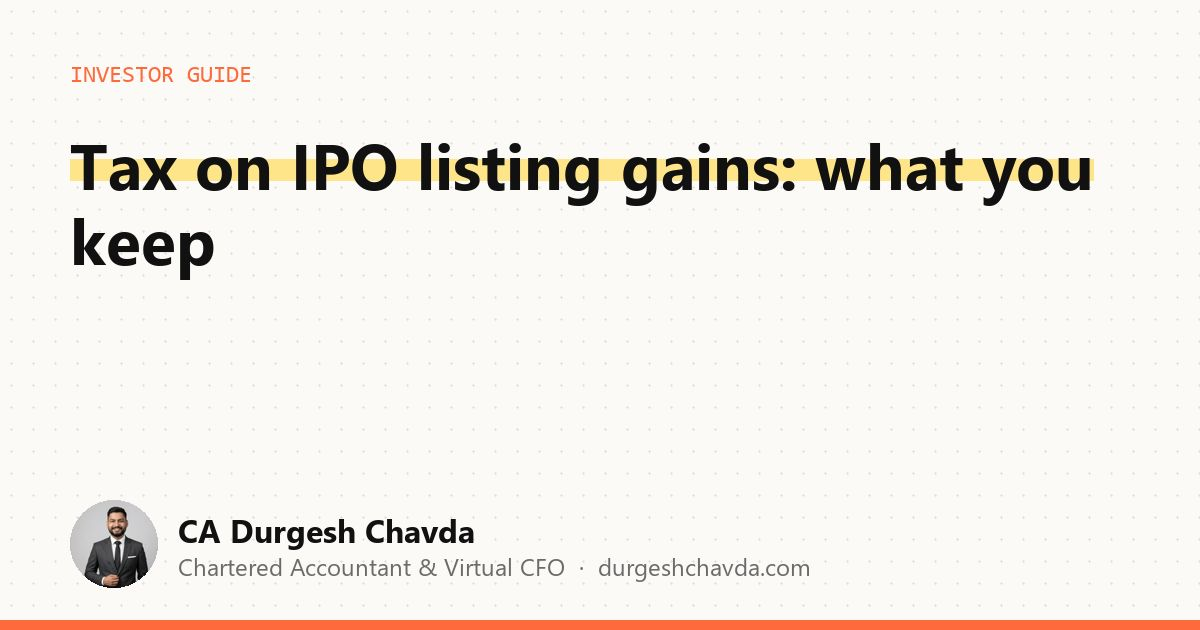
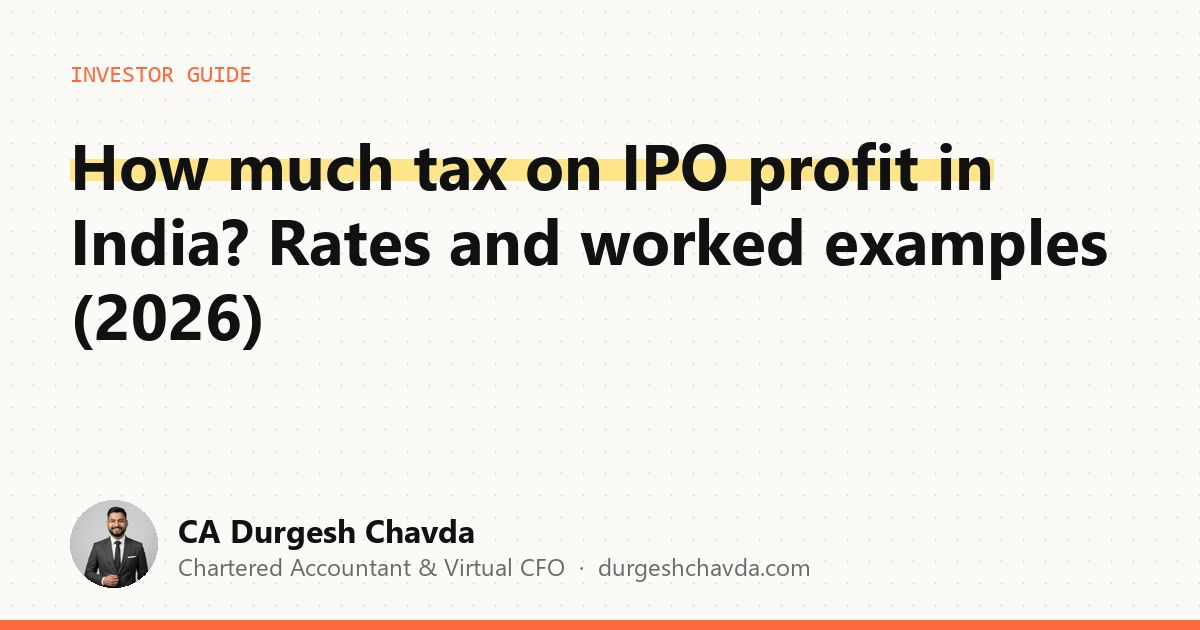
IPO profit tax: worked examples, profit-focused title and FAQs

Changed region(s): [[0.0617, 0.2111, 0.925, 0.3317], [0.0617, 0.3317, 0.925, 0.4524], [0.0617, 0.4524, 0.2158, 0.573]]

diff --git a/insights/tax-on-ipo-listing-gains-india/index.html b/insights/tax-on-ipo-listing-gains-india/index.html
@@ -3,7 +3,7 @@
 <head>
 <meta charset="UTF-8"/>
 <meta name="viewport" content="width=device-width,initial-scale=1.0"/>
-<title>IPO Tax Rate in India 2026: Tax on Listing Gains, STCG, LTCG</title>
+<title>IPO Profit Tax in India 2026: Rates, Listing Gains, Examples</title>
 <meta name="description" content="How IPO gains are taxed in India: sell within 12 months — 20% STCG; after — 12.5% LTCG above ₹1.25 lakh. TDS for NRIs, set-off of losses and how NRIs can apply."/>
 <meta name="robots" content="index,follow,max-image-preview:large,max-snippet:-1"/>
 <link rel="canonical" href="https://www.durgeshchavda.com/insights/tax-on-ipo-listing-gains-india/"/>
@@ -11,18 +11,18 @@
 <meta property="og:type" content="article"/>
 <meta property="og:site_name" content="Durgesh Chavda"/>
 <meta property="og:locale" content="en_IN"/>
-<meta property="og:title" content="IPO Tax Rate in India 2026: Tax on Listing Gains, STCG, LTCG"/>
+<meta property="og:title" content="IPO Profit Tax in India 2026: Rates, Listing Gains, Examples"/>
 <meta property="og:description" content="How IPO gains are taxed in India: sell within 12 months — 20% STCG; after — 12.5% LTCG above ₹1.25 lakh. TDS for NRIs, set-off of losses and how NRIs can apply."/>
 <meta property="og:url" content="https://www.durgeshchavda.com/insights/tax-on-ipo-listing-gains-india/"/>
 <meta property="og:image" content="https://www.durgeshchavda.com/assets/og/insights-tax-on-ipo-listing-gains-india.jpg"/>
 <meta property="og:image:width" content="1200"/><meta property="og:image:height" content="630"/>
 <meta name="twitter:card" content="summary_large_image"/>
-<meta name="twitter:title" content="IPO Tax Rate in India 2026: Tax on Listing Gains, STCG, LTCG"/>
+<meta name="twitter:title" content="IPO Profit Tax in India 2026: Rates, Listing Gains, Examples"/>
 <meta name="twitter:description" content="How IPO gains are taxed in India: sell within 12 months — 20% STCG; after — 12.5% LTCG above ₹1.25 lakh. TDS for NRIs, set-off of losses and how NRIs can apply."/>
 <meta name="twitter:image" content="https://www.durgeshchavda.com/assets/og/insights-tax-on-ipo-listing-gains-india.jpg"/>
 <link rel="alternate" type="application/rss+xml" title="Durgesh Chavda — Insights" href="https://www.durgeshchavda.com/insights/feed.xml"/>
-<!-- lastmod:2026-10-23 -->
-<meta property="article:published_time" content="2026-10-23"/><meta property="article:modified_time" content="2026-10-23"/><meta property="article:author" content="https://www.durgeshchavda.com/about/"/>
+<!-- lastmod:2026-10-25 -->
+<meta property="article:published_time" content="2026-10-25"/><meta property="article:modified_time" content="2026-10-25"/><meta property="article:author" content="https://www.durgeshchavda.com/about/"/>
 <meta name="theme-color" content="#fbfaf7"/>
 <link rel="icon" href="/favicon.svg" type="image/svg+xml"/>
 <link rel="icon" href="/favicon-32.png" sizes="32x32" type="image/png"/>
@@ -62,12 +62,12 @@
   {
    "@type": "BlogPosting",
    "@id": "https://www.durgeshchavda.com/insights/tax-on-ipo-listing-gains-india/#article",
-   "headline": "Tax on IPO listing gains: what you keep",
+   "headline": "How much tax on IPO profit in India? Rates and worked examples (2026)",
    "description": "How IPO gains are taxed in India: sell within 12 months — 20% STCG; after — 12.5% LTCG above ₹1.25 lakh. TDS for NRIs, set-off of losses and how NRIs can apply.",
    "url": "https://www.durgeshchavda.com/insights/tax-on-ipo-listing-gains-india/",
    "mainEntityOfPage": "https://www.durgeshchavda.com/insights/tax-on-ipo-listing-gains-india/",
-   "datePublished": "2026-10-23",
-   "dateModified": "2026-10-23",
+   "datePublished": "2026-10-25",
+   "dateModified": "2026-10-25",
    "inLanguage": "en-IN",
    "image": "https://www.durgeshchavda.com/assets/og/insights-tax-on-ipo-listing-gains-india.jpg",
    "author": {
@@ -83,6 +83,22 @@
   {
    "@type": "FAQPage",
    "mainEntity": [
+    {
+     "@type": "Question",
+     "name": "Is IPO profit tax-free after one year?",
+     "acceptedAnswer": {
+      "@type": "Answer",
+      "text": "Long-term gains (shares held over 12 months) are tax-free up to ₹1.25 lakh a year in total across listed equity; gains above that are taxed at 12.5% plus cess."
+     }
+    },
+    {
+     "@type": "Question",
+     "name": "How much tax do I pay on IPO profit if I sell on listing day?",
+     "acceptedAnswer": {
+      "@type": "Answer",
+      "text": "Selling within 12 months makes the profit a short-term capital gain taxed at 20%, plus 4% cess (and surcharge if applicable). On a ₹50,000 listing-day profit that is ₹10,400 before surcharge."
+     }
+    },
     {
      "@type": "Question",
      "name": "How are IPO listing gains taxed in India?",
@@ -139,9 +155,9 @@
   <div class="wrap">
     <nav class="crumbs rv" aria-label="Breadcrumb"><a href="/">Home</a> <span>/</span> <a href="/insights/">Insights</a> <span>/</span> <span aria-current="page">Tax on IPO gains</span></nav>
     <div class="eyebrow rv" style="margin-top:26px"><svg><use href="#sq-sm"/></svg>Investor guide</div>
-    <h1 class="rv">Tax on IPO listing gains: <mark>what you keep</mark></h1>
+    <h1 class="rv">How much tax on IPO profit in India? <mark>Rates and worked examples (2026)</mark></h1>
     <p class="lead rv">With a busy IPO calendar this October — including some of the largest issues India has seen — here&rsquo;s how gains on IPO shares are taxed, for residents and NRIs.</p>
-    <div class="byline"><picture><source type="image/webp" srcset="/assets/durgesh-thumb-144.webp"/><img src="/assets/durgesh-thumb-144.jpg" alt="" width="34" height="34"/></picture><span>By <a href="/about/" rel="author" style="color:var(--ink)">CA Durgesh Chavda</a></span><span>·</span><span>Last reviewed <time datetime="2026-10-23">23 October 2026</time></span><span>·</span><span>5 min read</span></div>
+    <div class="byline"><picture><source type="image/webp" srcset="/assets/durgesh-thumb-144.webp"/><img src="/assets/durgesh-thumb-144.jpg" alt="" width="34" height="34"/></picture><span>By <a href="/about/" rel="author" style="color:var(--ink)">CA Durgesh Chavda</a></span><span>·</span><span>Last reviewed <time datetime="2026-10-25">25 October 2026</time></span><span>·</span><span>5 min read</span></div>
     <div class="hero-ctas rv">
       <a class="btn btn-ink" href="https://wa.me/917801887130?text=Hi%20Durgesh%2C%20I%20have%20a%20question%20about%20tax%20on%20my%20IPO%20/%20share%20gains." target="_blank" rel="noopener"><svg class="icon"><use href="#i-wa"/></svg> Ask about your gains</a>
       <a class="btn btn-soft" href="mailto:hello@durgeshchavda.com"><svg class="icon"><use href="#i-mail"/></svg> hello@durgeshchavda.com</a>
@@ -150,7 +166,14 @@
 </header>
 <div class="page-g" style="grid-template-columns:minmax(0,1fr)">
   <article class="prose" style="max-width:none">
-<div class="callout"><strong>Quick answers</strong><ul><li><strong>Sell IPO shares within 12 months:</strong> short-term capital gains at 20%.</li><li><strong>Sell after 12 months:</strong> long-term gains at 12.5% on gains above ₹1.25 lakh a year.</li><li><strong>NRIs</strong> pay the same rates; the broker deducts TDS, and a return recovers any excess — see <a href="/insights/can-nri-apply-for-ipo-in-india/">NRIs in IPOs</a>.</li></ul></div><h2 id="rates">How IPO gains are taxed</h2>
+<div class="callout"><strong>Quick answers</strong><ul><li><strong>Sell IPO shares within 12 months:</strong> short-term capital gains at 20%.</li><li><strong>Sell after 12 months:</strong> long-term gains at 12.5% on gains above ₹1.25 lakh a year.</li><li><strong>NRIs</strong> pay the same rates; the broker deducts TDS, and a return recovers any excess — see <a href="/insights/can-nri-apply-for-ipo-in-india/">NRIs in IPOs</a>.</li></ul></div><h2 id="examples">How much tax on IPO profit? Worked examples</h2>
+<div class="tbl-wrap"><table class="tbl"><tr><th>Situation</th><th>Profit</th><th>Tax</th><th>How it&rsquo;s worked out</th></tr>
+<tr><td>Sold on listing day (short-term)</td><td>₹50,000</td><td><strong>₹10,400</strong></td><td>20% = ₹10,000, plus 4% cess = ₹400</td></tr>
+<tr><td>Sold after 8 months (short-term)</td><td>₹1,00,000</td><td><strong>₹20,800</strong></td><td>20% = ₹20,000, plus 4% cess = ₹800</td></tr>
+<tr><td>Sold after 14 months (long-term), no other equity gains that year</td><td>₹2,00,000</td><td><strong>₹9,750</strong></td><td>First ₹1,25,000 exempt; 12.5% on ₹75,000 = ₹9,375, plus 4% cess = ₹375</td></tr>
+<tr><td>Sold after 14 months, profit under ₹1.25 lakh</td><td>₹1,00,000</td><td><strong>Nil</strong></td><td>Within the ₹1.25 lakh yearly exemption for long-term equity gains</td></tr></table></div>
+<p class="note" style="font-size:14px;color:var(--muted)">Illustrative only: assumes listed shares sold on the exchange with securities transaction tax paid, no surcharge, and no other long-term equity gains in the year. Resident individuals with income below the basic exemption limit can set the unused limit against short-term gains. For NRIs the broker deducts TDS at these rates (plus any surcharge), and a return recovers any excess.</p>
+<h2 id="rates">How IPO gains are taxed</h2>
 <div class="tbl-wrap"><table class="tbl"><tr><th>When you sell</th><th>Type</th><th>Tax (2026-27)</th></tr>
 <tr><td>Within 12 months of allotment (including on listing day)</td><td>Short-term capital gain</td><td><strong>20%</strong> plus surcharge and cess</td></tr>
 <tr><td>After 12 months</td><td>Long-term capital gain</td><td><strong>12.5%</strong> on gains above ₹1.25 lakh a year</td></tr></table></div>
@@ -163,7 +186,7 @@
 <li>Treaty relief may apply in some cases; file a return to claim refunds — see <a href="/insights/nri-taxation-guide/">NRI taxation</a>.</li></ul>
 <h2 id="employees">Employees with pre-IPO ESOPs</h2>
 <p>Shares from ESOPs were taxed as salary at exercise; on sale after listing, the gain over the exercise-date value is taxed as above. See the <a href="/tools/esop-tax-calculator-india/">ESOP tax calculator</a>.</p>
-<h2 id="faq">Frequently asked questions</h2><div class="faq"><details><summary>How are IPO listing gains taxed in India?</summary><div class="a">If you sell within 12 months of allotment, the gain is short-term and taxed at 20% plus surcharge and cess; after 12 months, long-term gains above ₹1.25 lakh a year are taxed at 12.5%.</div></details><details><summary>Can NRIs apply for IPOs in India?</summary><div class="a">Yes, through an NRE (repatriable) or NRO (non-repatriable) bank account and an NRI demat account; tax is deducted at source on their gains.</div></details></div>
+<h2 id="faq">Frequently asked questions</h2><div class="faq"><details><summary>Is IPO profit tax-free after one year?</summary><div class="a">Long-term gains (shares held over 12 months) are tax-free up to ₹1.25 lakh a year in total across listed equity; gains above that are taxed at 12.5% plus cess.</div></details><details><summary>How much tax do I pay on IPO profit if I sell on listing day?</summary><div class="a">Selling within 12 months makes the profit a short-term capital gain taxed at 20%, plus 4% cess (and surcharge if applicable). On a ₹50,000 listing-day profit that is ₹10,400 before surcharge.</div></details><details><summary>How are IPO listing gains taxed in India?</summary><div class="a">If you sell within 12 months of allotment, the gain is short-term and taxed at 20% plus surcharge and cess; after 12 months, long-term gains above ₹1.25 lakh a year are taxed at 12.5%.</div></details><details><summary>Can NRIs apply for IPOs in India?</summary><div class="a">Yes, through an NRE (repatriable) or NRO (non-repatriable) bank account and an NRI demat account; tax is deducted at source on their gains.</div></details></div>
 <p class="callout blue" style="margin-top:40px"><strong>Please note:</strong> this guide is general information based on the rules as they stood on the review date above. Regulations and RBI/CBDT procedures change often — please get advice on your specific facts before acting.</p><aside class="author-box" aria-label="About the author"><picture><source type="image/webp" srcset="/assets/durgesh-thumb-144.webp"/><img src="/assets/durgesh-thumb-144.jpg" alt="CA Durgesh Chavda" width="72" height="72" loading="lazy"/></picture><div><div class="k">About the author</div><p><a href="/about/"><strong>CA Durgesh Chavda</strong></a> is a Chartered Accountant (ICAI) and Virtual CFO who advises founders, fund managers and NRIs on US incorporation, India–US flips and reverse flips, FEMA/RBI, NRI taxation and fundraising. As Finance Head of Stimuler he led a USD 3.75M Pre-Series A end-to-end. He is Managing Partner at Finvy, with offices in Ahmedabad and Dubai.</p><p class="links"><a href="/about/">Full profile</a> · <a href="https://linkedin.com/in/ca-durgesh-chavda-bb08a6b0" target="_blank" rel="noopener">LinkedIn</a> · <a href="https://wa.me/917801887130" target="_blank" rel="noopener">WhatsApp</a></p></div></aside>
   </article>
   
